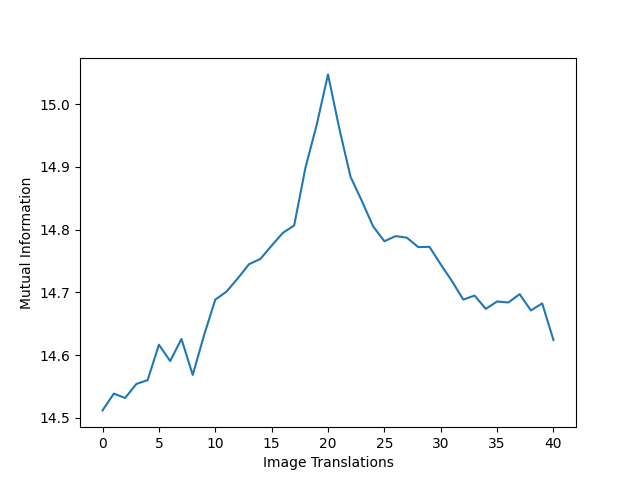
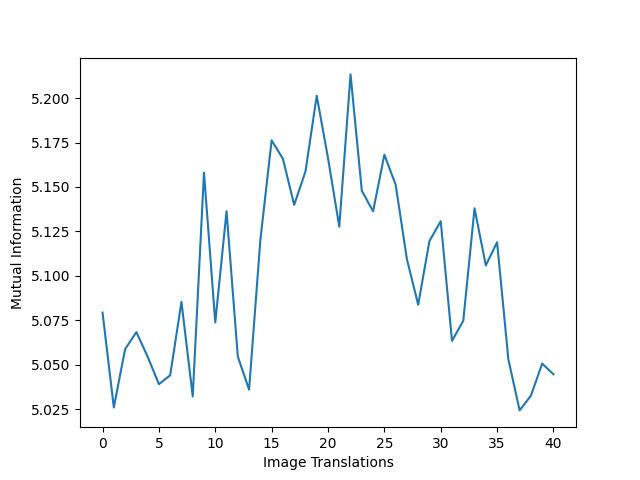
with 3 bin sizes

diff --git a/assignment-3/src/mutual-information.py b/assignment-3/src/mutual-information.py
@@ -44,6 +44,7 @@ def binSizeChangeAlt(img):
     top, bottoms = reshapeImage(img)
     mis = {}
     binses = set([int(256/x) for x in range(1,256)])
+    print(binses)
     for binss in binses:
         hist = np.histogram2d(np.asarray(top).flatten(), np.asarray(bottoms[20]).flatten(), bins=binss)
         hist_img = Image.fromarray(hist[0], 'RGB')
@@ -55,12 +56,12 @@ def binSizeChangeAlt(img):
 
 
 ### calculate mutual information and save plot results
-def mutuallInformation(img, img_name):
+def mutuallInformation(img, img_name, bin_size):
     fig = plt.figure()
     plt.ylabel('Mutual Information')
     plt.xlabel('Image Translations')
-    sns.lineplot(x=[x for x in range(41)], y=mutualInfoCalc(img, 256))
-    translations_outputImgPath = "../output/" + img_name + "_translations"
+    sns.lineplot(x=[x for x in range(41)], y=mutualInfoCalc(img, bin_size))
+    translations_outputImgPath = "../output/" + img_name + "_binSize_" + str(bin_size) 
     plt.savefig(translations_outputImgPath)
 
     fig = plt.figure()
@@ -69,7 +70,7 @@ def mutuallInformation(img, img_name):
     mis = binSizeChangeAlt(img)
     x, y = zip(*(sorted(mis.items())))
     sns.lineplot(x=x, y=y)
-    binSize_outputImgPath = "../output/" + img_name + "_binSize"
+    binSize_outputImgPath = "../output/" + img_name + "binNumCurve"
     plt.savefig(binSize_outputImgPath)
 
 
@@ -86,9 +87,11 @@ def main():
     img_name = img_path[len("../input/"): -len(".jpg")]
 
     noisy_img = addNoise(input_img, "salt");
-    noisy_img = addNoise(noisy_img, "salt");
+    noisy_img = addNoise(noisy_img, "gaussian");
 
-    mutuallInformation(noisy_img, img_name)
+    mutuallInformation(noisy_img, img_name, 15)
+    mutuallInformation(noisy_img, img_name, 50)
+    mutuallInformation(noisy_img, img_name, 256)
 
 if __name__ == '__main__':
     main()
